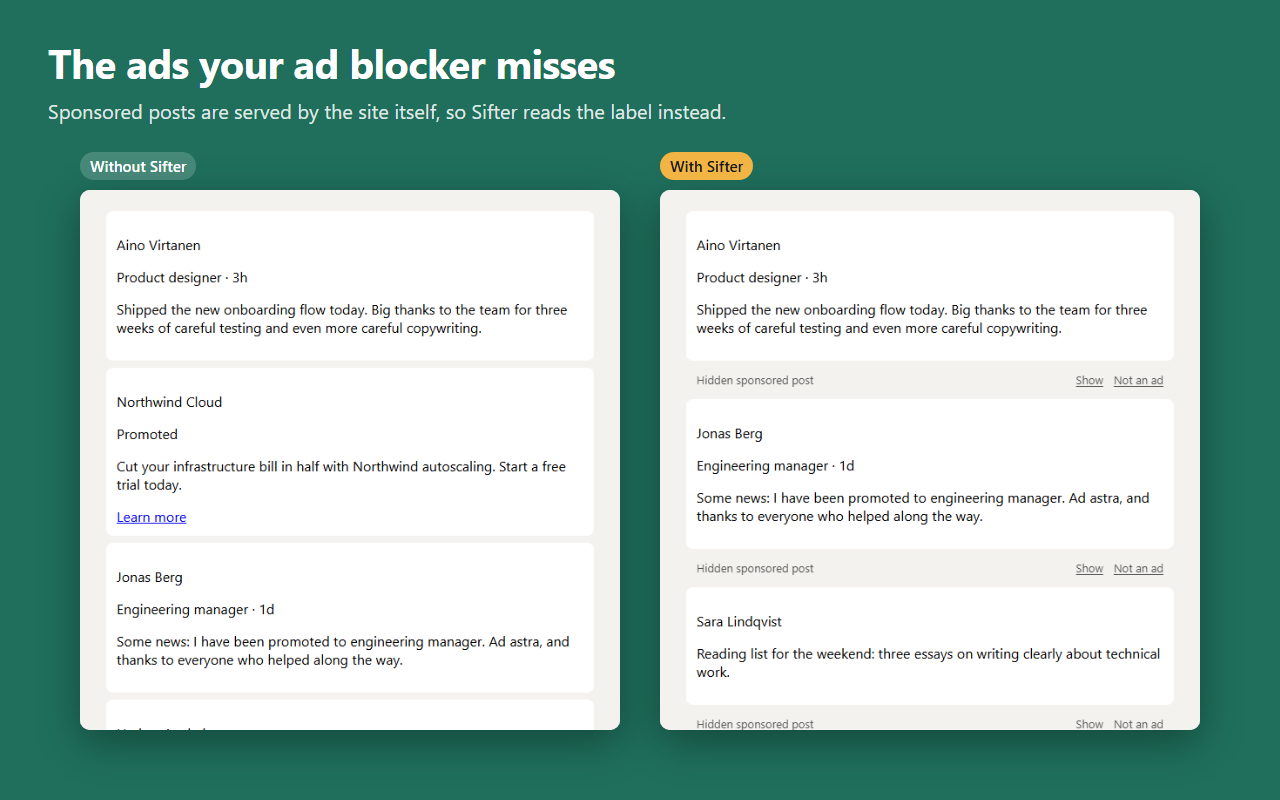
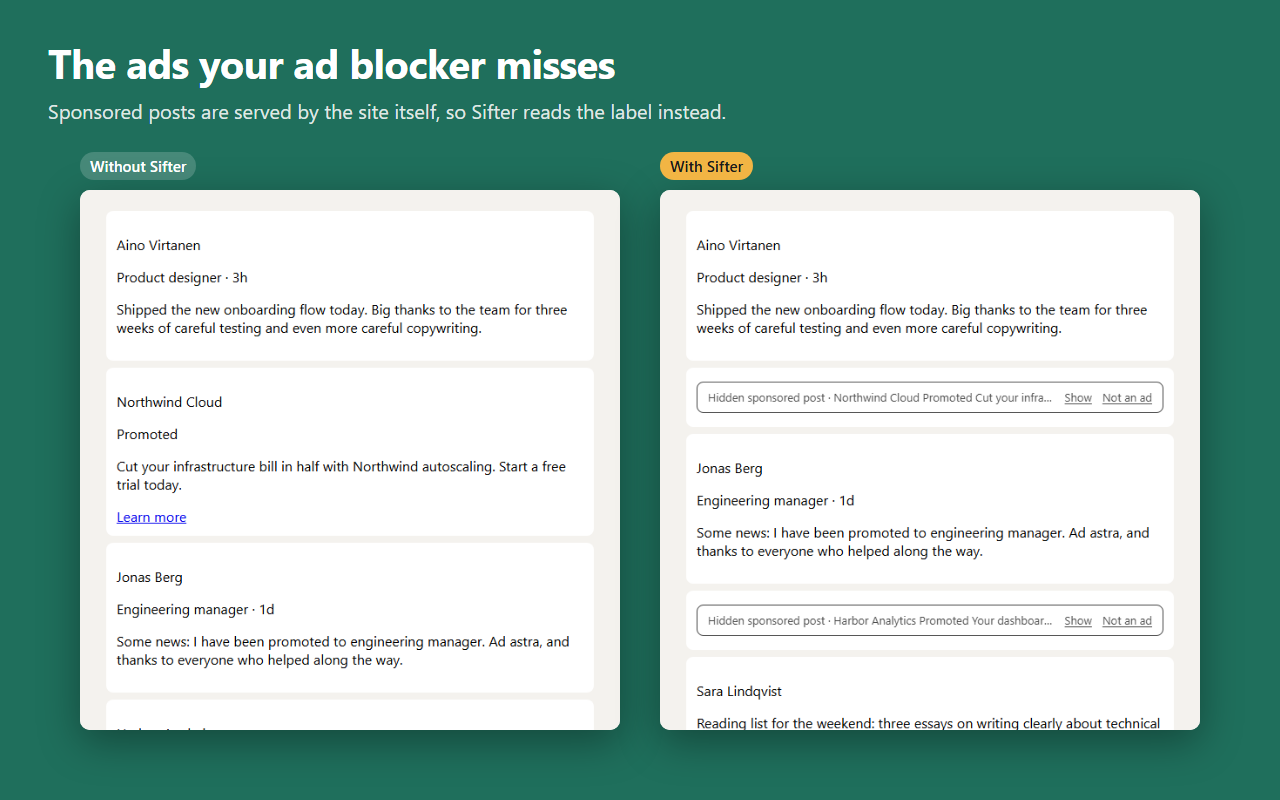
release: v1.2.0
Version bump, CHANGELOG 1.2.0, ROADMAP points at v1.2.0, store listing notes
the dashboard title comes from the manifest name. Store images re-rendered
(the committed ones predated the placeholder redesign); the asset script
strips the fixture's visually hidden decoy so the hint reads cleanly.
CHECKPOINT records the audit, the live probes and deferred UX items.

diff --git a/CHECKPOINT.md b/CHECKPOINT.md
@@ -1,5 +1,63 @@
 # Sifter checkpoint
 
+**v1.2.0 pre-submission audit (2026-10-11, branch `release/1.2.0`).** Daniel's live
+report: LinkedIn good, Facebook slow but fine, Google missed a sponsored carousel on
+"shoes". Everything below ships in v1.2.0, together with the blur-marks fix.
+
+- **Google, third carousel shape (confirmed live).** `div.vbIt3d[data-dsktp-pla-or-su=true]`
+  under `#cnt`, with no `#atvcap`, `#tads` or `[data-dsktp-pla]`. It was on 5 of 5 product
+  queries ("shoes", "running shoes", "headphones", "laptop", "sneakers nike sale"), holding
+  4-29 `plap_` /aclk links.
+  - **Trap:** every `plap_` anchor is `display:none`. A marker on one of them trips the
+    foreign-hidden check (`scanner.ts`, "Something other than Sifter"), and the unit is skipped
+    for good.
+  - **Fix:** the new adSelector `[data-dsktp-pla-or-su="true"]:has(a[id^="plap_"])` matches the
+    unit itself and comes first.
+  - **Receipts:** e2e cases at load and late, plus a no-plap decoy. Mutation (selector removed):
+    both hide cases fail and the decoy still passes.
+  - The text-ad wrapper is now `or-su=false` inside `#rso .MjjYud`; it is an ad container, so
+    its "Sponsored result" heading goes with the ad.
+  - **Lesson:** a site can hide its own ad markers by design, so for container ads prefer an
+    adSelector that self-matches the unit.
+- **LinkedIn notification click.** The URL is `/feed/?highlightedUpdateUrn=…&highlightedUpdateType=…&origin=…`,
+  confirmed live.
+  - New adapter field `suggestedOffParams: ["highlightedUpdateUrn"]`: suggested hiding is off
+    while the param is present.
+  - It stays off after LinkedIn strips the param, until the pathname changes. Missing a
+    suggestion is the safe side; hiding the post the reader came for is not.
+  - Sponsored still hides there.
+- **Undo on "Hidden by you"** no longer stores `not-ad`, which permanently exempted the post. It
+  drops the manual hide instead.
+  - Also: options copy matches the popup button, the placeholder row has an `aria-label`, and
+    textareas get the focus ring.
+- **Compat.** `.github/workflows/compat.yml` runs build plus e2e on macos-latest (ARM64) and
+  windows-latest for `release/*` PRs and on dispatch. It is not a required check.
+  - The extension has no platform code, so ARM64 matters only for local benches (Playwright's
+    Chromium is emulated x64 here).
+  - The `minimum_chrome_version` comment no longer claims e2e ran on 116.
+- **Live DOM-drift probe (read-only, Claude-in-Chrome profile, Sifter not loaded there):**
+  - LinkedIn: feed root found; 1 Promoted unit, labelled.
+  - X: 8 units; 1 "Ad" label, inside a marked unit, none outside.
+  - Facebook: not measurable (background window, feed stuck on skeletons, profile acting as a
+    Page).
+  - Reddit: blocked by the browser tool.
+  - Instagram, Threads: not probed (extension disconnected).
+  - **Unprobed sites rely on fixtures plus Daniel's own use.**
+- **Deferred UX, after launch:**
+  - onboarding page;
+  - context-menu feedback when nothing is under the cursor;
+  - a per-post exception list in options;
+  - error states on the options switches;
+  - NL/DE/FR marker verification;
+  - IT/PL marker words.
+  - The placeholder hint quotes the post's `textContent`, so visually hidden text (a split
+    decoy like `Pro<span class=_vh>zq</span>moted`) shows up in it. The store images strip
+    the fixture's decoy (`scripts/store-assets.mjs`); on a live page the hint can carry the
+    same noise.
+- **Store assets** re-rendered: the committed ones dated from 2026-09-25 and showed the old
+  placeholder.
+- **Collapse vs blur-below:** (a), keep collapse, ships unchanged. Revisit after launch.
+
 **Follow-up A/B/C answered (2026-10-08, lane-clock release build, on `perf/lane-clock`).**
 The frame excess with Sifter on comes from the posts that collapsing brings into the same
 distance, not from Sifter's presence or writes. Whether that matters is a design question
@@ -92,7 +150,7 @@ amount could be cut slightly."
   old build: 9 hides, 0 blurred. Keep live runs at 75 s or less, because a 180 s trace stalled
   the parse.
 - **Landed:** the rule-7 wording was accepted, and the stack merged #30 → #31 → #29 → `main`.
-- **Open, live report (2026-10-08, future fix):** Daniel clicked a notification ("a page
+- **RESOLVED 2026-10-11 (v1.2.0), see the top entry. Was: live report (2026-10-08):** Daniel clicked a notification ("a page
   tagged you in a post"), and LinkedIn put him back in the feed with that post hidden.
   - **Hypothesis, unverified:** LinkedIn opens a notification by showing the post at the
     top of `/feed/` (a highlighted-update URL), not at `/feed/update/...`.

diff --git a/CHANGELOG.md b/CHANGELOG.md
@@ -4,6 +4,8 @@ Format: [Keep a Changelog](https://keepachangelog.com/en/1.1.0/).
 
 ## [Unreleased]
 
+## [1.2.0] - 2026-10-11
+
 ### Changed
 
 - The feed no longer jumps or leaves blank gaps when Sifter hides something.
@@ -36,6 +38,21 @@ Format: [Keep a Changelog](https://keepachangelog.com/en/1.1.0/).
 
 ### Fixed
 
+- Google: the "Sponsored products" carousel at the top of a shopping search
+  ("shoes") was shown. Google now serves it in a third shape, under a renamed
+  attribute, with its ad links hidden from view, which Sifter took for "already
+  hidden by something else". It is hidden again, and the "Sponsored result"
+  heading above a mid-page text ad now goes with the ad.
+- LinkedIn: clicking a notification about a post opened the feed with that very
+  post hidden as a suggestion. While the feed is showing a post you opened from a
+  notification, suggested hiding is off until you leave that page. Sponsored
+  posts are still hidden there.
+- "Undo" on a post you hid yourself now just undoes your hide. Before, it marked
+  the post as "not an ad" for good, so it could never be hidden again even if it
+  was one.
+- The settings page now names the popup button as it reads ("Hide ads on" and the
+  site's name), the hidden-post bar has an accessible name for screen readers, and
+  the muted-words box shows the keyboard focus ring.
 - On LinkedIn, a tagged or blurred post's text stayed readable while only its
   reactions and comments were blurred. LinkedIn wraps the post body in a box
   the browser doesn't draw itself, so the blur on it did nothing; Sifter now

diff --git a/docs/STORE_LISTING.md b/docs/STORE_LISTING.md
@@ -3,6 +3,10 @@
 ## Name
 Sifter: hide sponsored posts
 
+The dashboard takes the item title from the manifest `name`, which is "Sifter"; it
+has no separate title field. The longer name above is for the README and anywhere
+else that asks for one. For an Unlisted listing this does not matter.
+
 ## Summary (132 characters max)
 Hides the sponsored posts your ad blocker misses on LinkedIn, Reddit, Google, X, Instagram, Facebook and Threads.
 
@@ -38,7 +42,7 @@ Hide sponsored and promoted posts, and posts matching user-set filters, on the s
 
 ## Permission justifications (for review)
 - Host permissions (launch sites): read the page to find posts labelled as sponsored and hide them. Nothing is transmitted.
-- Optional host permissions (https://*/*): requested per site, only when the user chooses "Hide ads on this site" in the popup.
+- Optional host permissions (https://*/*): requested per site, only when the user chooses "Hide ads on" and the site's name in the popup.
 - storage: user settings and exceptions, stored locally.
 - scripting: inject the content script into a site the user has just turned on.
 - activeTab: read the current tab's hostname so the popup can offer to turn Sifter on there.

diff --git a/PRIVACY.md b/PRIVACY.md
@@ -32,7 +32,7 @@ Uninstalling Sifter deletes it.
 | Permission | Why |
 |---|---|
 | Access to linkedin.com, reddit.com, x.com, twitter.com, instagram.com, facebook.com, threads.com, threads.net, google.com and 18 Google country domains (google.nl, google.de, google.co.uk, …; the full list is `GOOGLE_DOMAINS` in `src/sites.ts`). Chrome grants this per domain, so it covers every page on them; on Google, Sifter's rules are written for the search results page | to find and hide sponsored posts on those sites |
-| Other sites (optional, only when you ask) | when you choose "Hide ads on this site" in the popup, Chrome asks you to grant that one site |
+| Other sites (optional, only when you ask) | when you choose "Hide ads on" and the site's name in the popup, Chrome asks you to grant that one site |
 | `storage` | to keep your settings on your device |
 | `scripting` | to start Sifter on a site you've just turned on, without a reload |
 | `activeTab` | to show the current site's name in the popup |

diff --git a/docs/ROADMAP.md b/docs/ROADMAP.md
@@ -83,8 +83,8 @@ any scanner file was touched (none should be).
 
 1. Chrome Web Store developer account: sign in, pay the $5 one-off fee, enable
    2-Step Verification on the Google account.
-2. Take the zip from the **latest** GitHub Release (Phase 3.3); `v1.1.1` as of
-   2026-09-28. Submit the newest tag, not `v1.0.0`, which lacks every fix since.
+2. Take the zip from the **latest** GitHub Release (Phase 3.3); `v1.2.0` as of
+   2026-10-11. Submit the newest tag, not `v1.0.0`, which lacks every fix since.
 3. Developer Dashboard: **Add new item**, upload the zip.
 4. **Store listing tab:** paste title, summary and description from
    `docs/STORE_LISTING.md`; category Productivity; upload the three screenshots

diff --git a/README.md b/README.md
@@ -94,7 +94,7 @@ accounts, so some sponsored and suggested posts get through. The popup and the
 settings page show the same tag. It is on by default like every other site, and
 turning it off is one switch.
 
-**Any other site** can be turned on from the popup ("Hide ads on this site"). There
+**Any other site** can be turned on from the popup ("Hide ads on" and the site's name). There
 Sifter uses general detection: it hides elements whose whole visible label is
 "Sponsored", "Ad" or similar.
 
